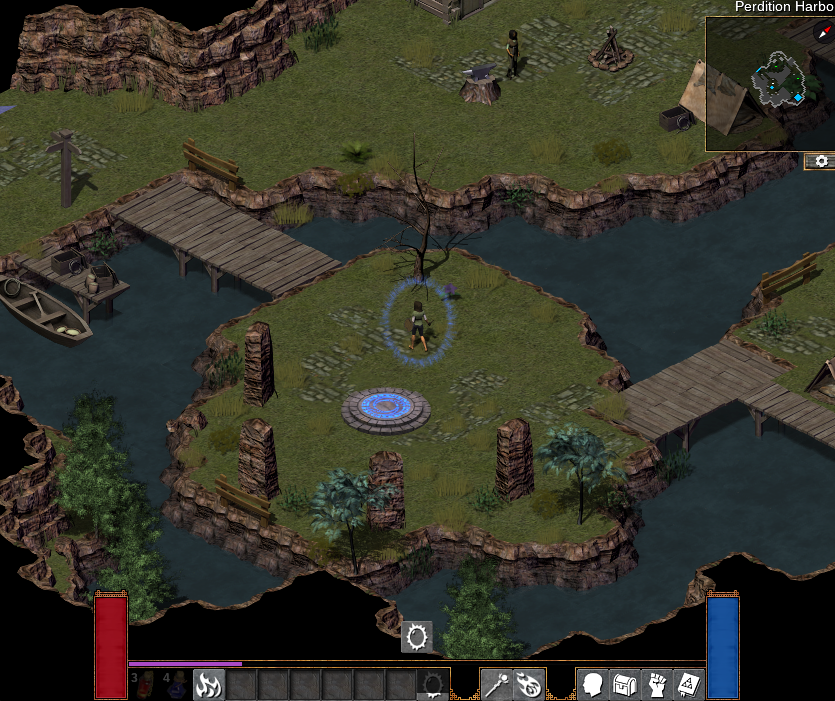
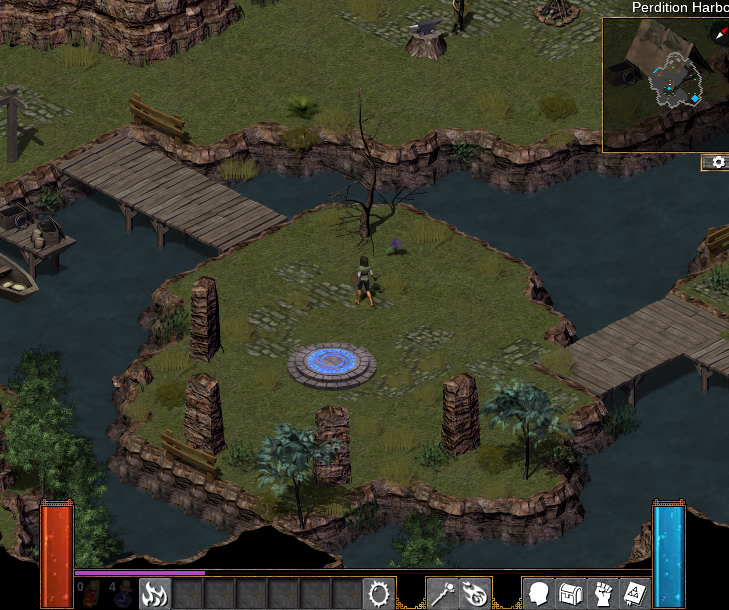
changed look of hp and mp bar

diff --git a/README.md b/README.md
@@ -5,7 +5,6 @@ Fantasy UI Mod for Flare Rpg
 ![](readme/screenshot-01.png)
 ![](readme/screenshot-02.png)
 ![](readme/screenshot-03.png)
-![](readme/screenshot-04.png)
 
 # Install
 - Copy the `fantasy-ui` folder into the mods folder of your Flare installation.
